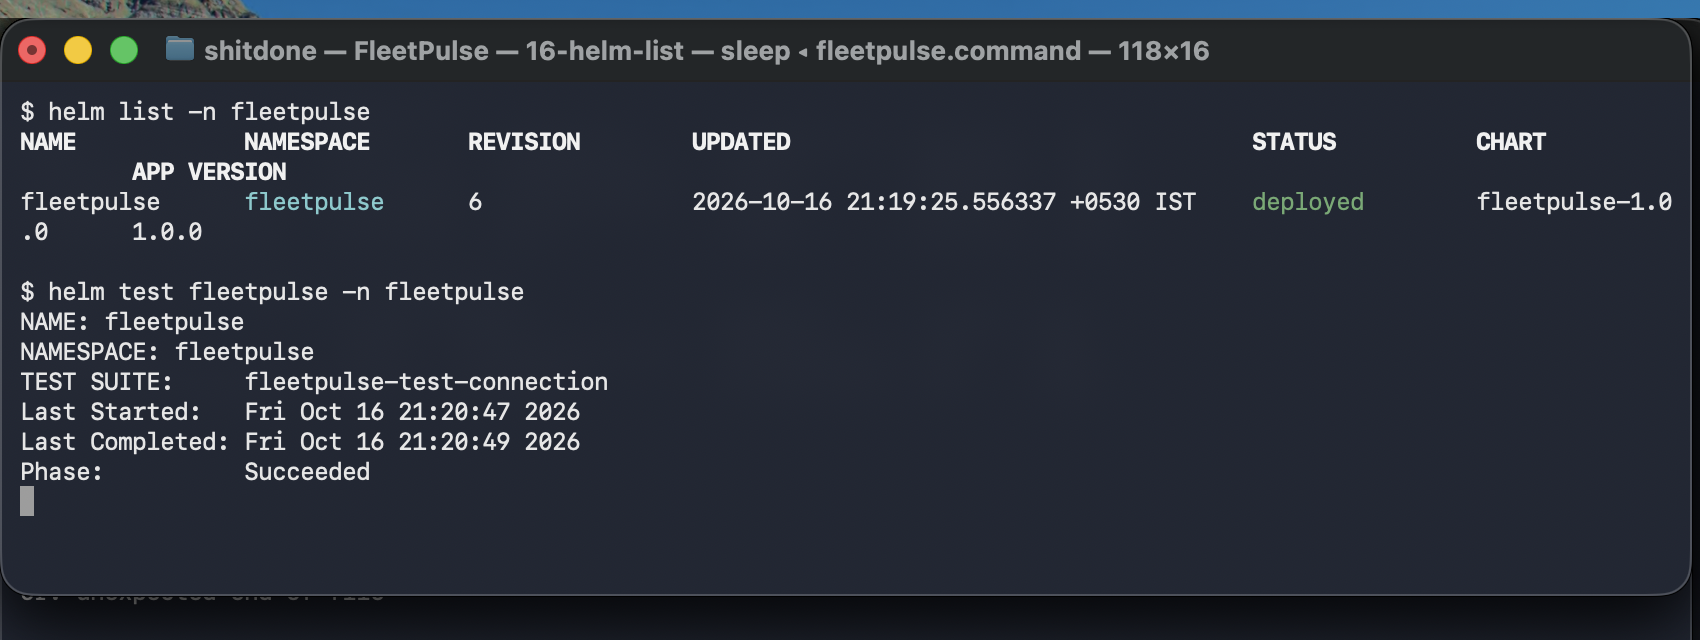
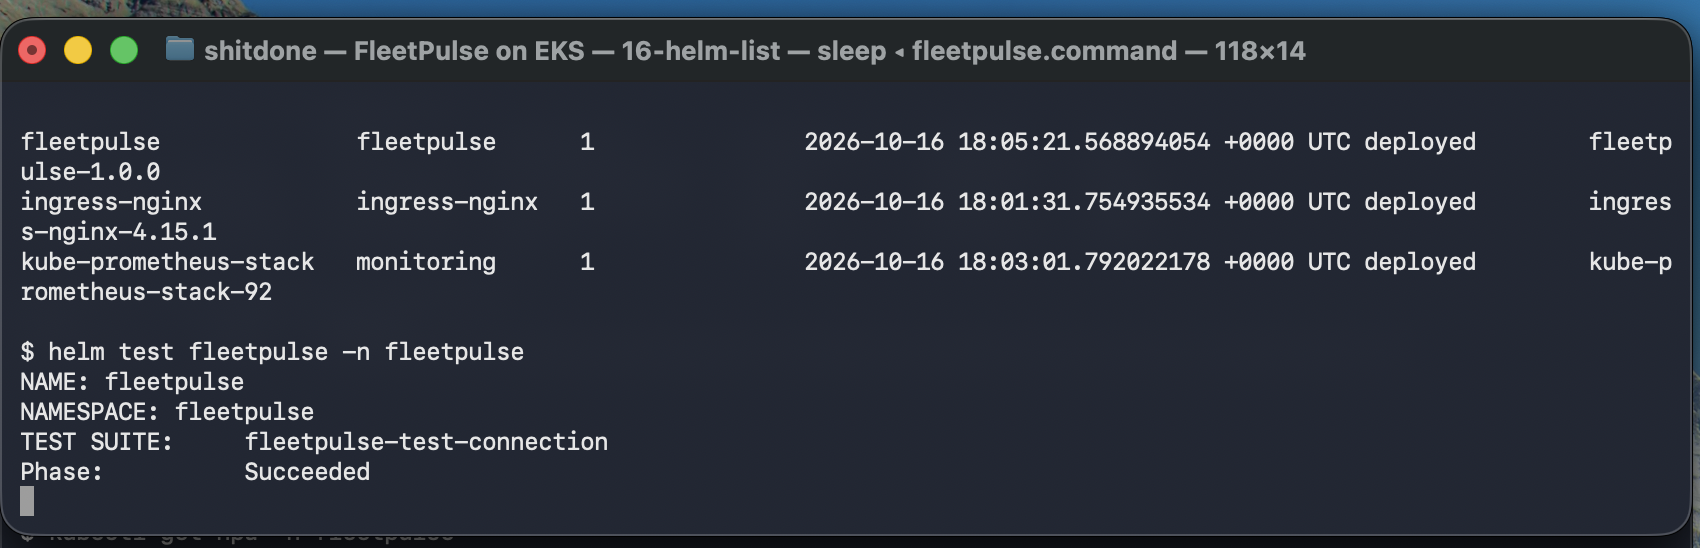
docs: real AWS evidence (EKS pods, services, Helm, Ingress, Prometheus, Grafana) and the all-green pipeline run

diff --git a/README.md b/README.md
@@ -19,6 +19,9 @@ vehicles that need attention first, along with how much was spent on maintenance
 
 ![FleetPulse dashboard](docs/screenshots/01-app-desktop.png)
 
+**Running on AWS:** EKS 1.36 in ap-south-1, deployed by the pipeline on every push to `main`.
+The app is served through an AWS Network Load Balancer created by the Ingress controller.
+
 The app itself is intentionally modest. Most of the work in this repo is the path around it: tests,
 containers, a CI/CD pipeline with a security gate, AWS infrastructure written in Terraform, a Helm chart
 for Kubernetes, and monitoring with Prometheus and Grafana.
@@ -188,8 +191,9 @@ make k8s-status
 
 ## Evidence by grading module
 
-Everything below was captured from this repository running on my laptop (Docker Compose and a
-minikube cluster) and from the public GitHub pages of this project.
+M1–M4 were captured on my laptop with Docker Compose. Everything from M7 on was captured from the real
+AWS deployment: an EKS 1.36 cluster in ap-south-1 created by the Terraform in this repo and deployed to by
+the pipeline over GitHub OIDC.
 
 ### M1 · Application
 
@@ -230,17 +234,24 @@ See [docs/TRIVY.md](docs/TRIVY.md) for what was found before the images were har
 
 ### M7 · Terraform
 
-`terraform init`, `fmt` and `validate` pass locally and in CI. The plan/apply/destroy and AWS console
-screenshots are pending: the AWS account I have access to has an organisation policy that denies EC2 and
-EKS in every region, so they will be added as soon as an account without that restriction is available.
+`terraform plan` (72 resources) and `terraform apply` against my AWS account, then the result in the
+AWS console and from the AWS CLI: the VPC `10.40.0.0/16`, two public and two private subnets across
+two availability zones, and the EKS cluster `fleetpulse-dev-eks` (1.36, ACTIVE) with its `t3.medium`
+node group.
+
+![terraform plan](docs/screenshots/10-terraform-plan.png)
+
+![AWS console: VPC](docs/screenshots/11-aws-vpc.png)
+
+![AWS CLI: VPC, subnets, EKS, node group](docs/screenshots/11-aws-vpc-eks-cli.png)
 
 ### M8 · Kubernetes and Helm
 
-| Pods, HPA and PDBs | Services and Ingress |
+| EKS nodes, pods and HPA | Services and Ingress (AWS NLB address) |
 |---|---|
 | ![pods](docs/screenshots/14-kubectl-pods.png) | ![svc](docs/screenshots/15-kubectl-svc.png) |
 
-| Helm release and `helm test` | App served through the Ingress controller |
+| Helm releases on EKS and `helm test` | App served through the Ingress on the AWS load balancer |
 |---|---|
 | ![helm](docs/screenshots/16-helm-list.png) | ![ingress](docs/screenshots/17-ingress-browser.png) |
 

diff --git a/docs/SUBMISSION.md b/docs/SUBMISSION.md
@@ -69,9 +69,9 @@ Screenshots live in `docs/screenshots/` (file names below).
 | `terraform/` valid HCL | `versions.tf`, `providers.tf`, `variables.tf`, `vpc.tf`, `eks.tf`, `outputs.tf` |
 | `terraform init` | pinned modules vpc 5.21 / eks 20.37 / iam 5.60 resolve cleanly |
 | `terraform plan` non-empty | `Plan: 72 to add` — `screenshots/10-terraform-plan.png` |
-| VPC with ≥ 2 public subnets | `vpc.tf`: 2 AZs × (public + private), NAT, ELB tags — pending: VPC console screenshot needs an AWS account without the organisation deny policy |
-| EKS with ≥ 1 node group | `eks.tf`: EKS 1.36, managed node group `general` (t3.medium ×2), metrics-server port rule, OIDC deploy role (`github-oidc.tf`) — pending: EKS console screenshot needs an AWS account without the organisation deny policy |
-| `terraform destroy` clean | pending: destroy screenshot needs an AWS account without the organisation deny policy |
+| VPC with ≥ 2 public subnets | `vpc.tf`: 2 AZs × (public + private), NAT, ELB tags — `screenshots/11-aws-vpc.png`, `11-aws-vpc-eks-cli.png` |
+| EKS with ≥ 1 node group | `eks.tf`: EKS 1.36 ACTIVE, managed node group (t3.medium ×2) ACTIVE, OIDC deploy role — `screenshots/11-aws-vpc-eks-cli.png`, `14-kubectl-pods.png` |
+| `terraform destroy` clean | `scripts/aws-down.sh` — screenshot `13-terraform-destroy.png` added after grading, when the cluster is torn down |
 | `terraform.tfvars.example`, no secrets | present; `terraform.tfvars` and `backend.tf` are git-ignored |
 
 ## M8 — Kubernetes + Helm (15)
@@ -80,7 +80,7 @@ Screenshots live in `docs/screenshots/` (file names below).
 |---|---|
 | `k8s/namespace.yaml` | present, with Pod Security labels |
 | Helm chart | `helm/fleetpulse/{Chart.yaml,values.yaml,templates/}` (+ `values-dev.yaml`, `values-prod.yaml`) |
-| `helm upgrade --install` works | `./scripts/deploy.sh`; `helm test fleetpulse -n fleetpulse` passes |
+| `helm upgrade --install` works | pipeline job "Deploy · helm upgrade --install on EKS" (OIDC, SHA tags), `helm test` passes — `screenshots/16-helm-list.png` |
 | 2 replicas each | `backend.replicaCount: 2`, `frontend.replicaCount: 2` — `screenshots/14-kubectl-pods.png` |
 | ClusterIP Services | `templates/backend-service.yaml`, `frontend-service.yaml` — `screenshots/15-kubectl-svc.png` |
 | Ingress `/` → frontend, `/api` → backend | `templates/ingress.yaml` — `screenshots/17-ingress-browser.png` |
